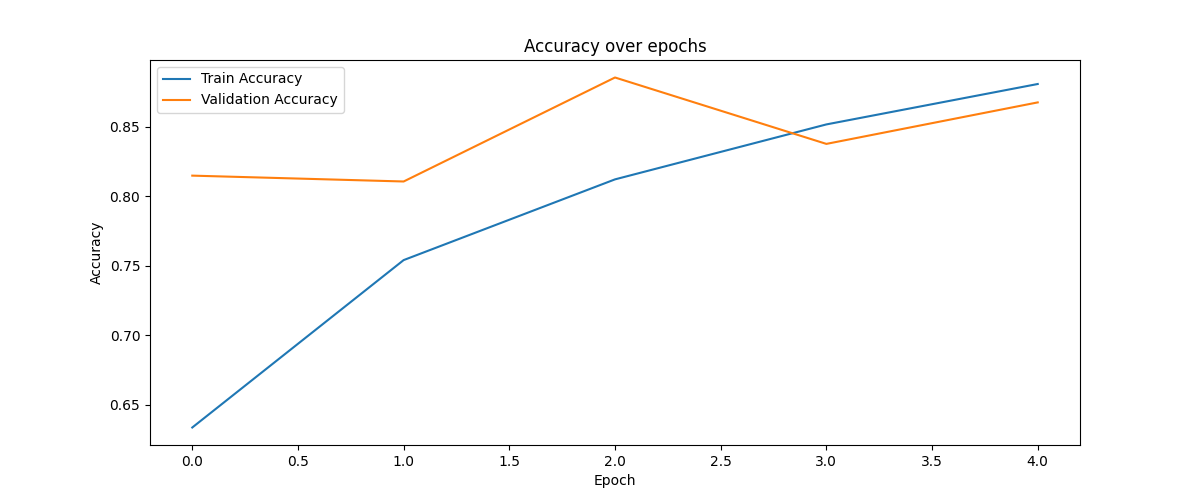
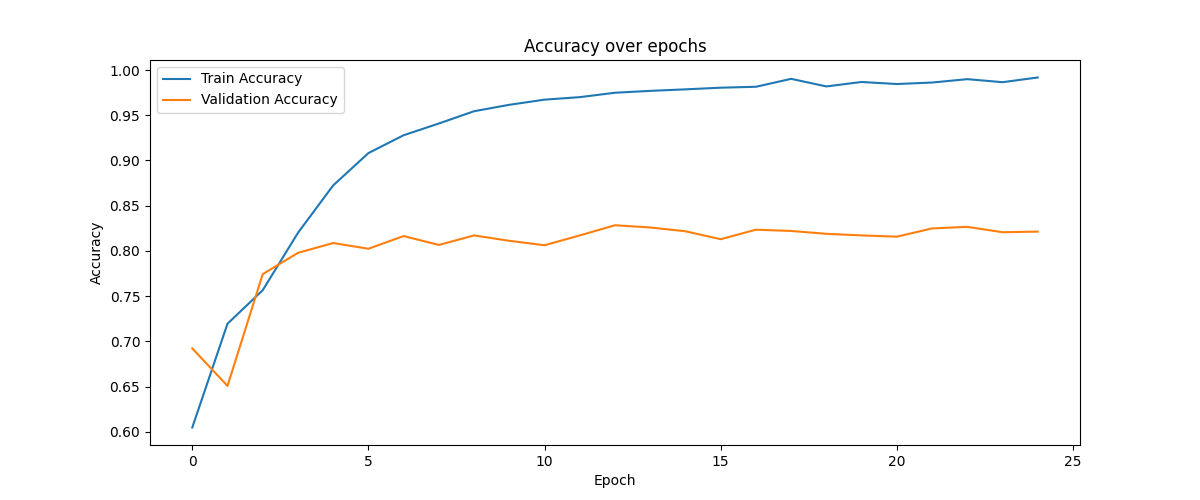
wip: retrain model, remake tests and experiments

diff --git a/cmd/train_remake_model.py b/cmd/train_remake_model.py
@@ -1,0 +1,76 @@
+import os
+import sys
+import mlflow
+import numpy as np
+import tensorflow as tf
+import matplotlib.pyplot as plt
+
+from tensorflow.keras.layers import Dense
+from tensorflow.keras.models import Model
+
+# ================================================
+
+PATH_ROOT = os.getenv('PATH_ROOT')
+TRAIN_DATASET_PATH = os.getenv('TRAIN_DATASET_PATH')
+
+# ================================================
+
+other_findings_train_images = np.load(os.path.join(TRAIN_DATASET_PATH, 'train_other_findings_images.npy'))
+other_findings_train_labels = np.load(os.path.join(TRAIN_DATASET_PATH, 'train_other_findings_labels.npy'))
+
+other_findings_train_images = other_findings_train_images[..., np.newaxis]
+
+print('other_findings_train_images.shape: ', other_findings_train_images.shape)
+print('other_findings_train_labels.shape: ', other_findings_train_labels.shape)
+
+model_path = os.path.join(PATH_ROOT, 'model', 'cnn_model.h5')
+
+# Carrega o modelo salvo
+model = tf.keras.models.load_model(model_path)
+
+# Remova a última camada do modelo
+model.layers.pop()
+
+# Numero de possíveis saidas
+new_outputs = 4 
+output = Dense(new_outputs, activation='softmax')(model.layers[-1].output)
+
+# Crie um novo modelo com a saída alterada
+new_model = Model(inputs=model.input, outputs=output)
+
+# summary model structure
+model.summary() 
+
+# Compilando o modelo
+model.compile(optimizer='adam', loss='sparse_categorical_crossentropy', metrics=['accuracy'])
+
+# Treinando o modelo
+history = model.fit(other_findings_train_images, other_findings_train_labels, epochs=25, validation_split=0.1)
+
+# Plotando a acurácia de treino e validação ao longo das épocas
+plt.figure(figsize=(12, 5))
+plt.plot(history.history['accuracy'], label='Train Accuracy')
+plt.plot(history.history['val_accuracy'], label='Validation Accuracy')
+plt.legend()
+plt.title('Accuracy over epochs')
+plt.xlabel('Epoch')
+plt.ylabel('Accuracy')
+
+plt.savefig(os.path.join(PATH_ROOT, 'stats', 'train', 'retrained_accuracy_graph.png'))
+
+# Plotando a perda de treino e validação ao longo das épocas
+plt.figure(figsize=(12, 5))
+plt.plot(history.history['loss'], label='Train Loss')
+plt.plot(history.history['val_loss'], label='Validation Loss')
+plt.legend()
+plt.title('Loss over epochs')
+plt.xlabel('Epoch')
+plt.ylabel('Loss')
+
+# save fig
+plt.savefig(os.path.join(PATH_ROOT, 'stats', 'train', 'retrained_loss_graph.png'))
+
+# Se você quiser salvar o modelo após o treinamento, você pode fazer isso:
+model.save(os.path.join(PATH_ROOT, 'model', 'cnn_model_retrained.h5'))
+
+mlflow.run(uri='.', entry_point='experiments_remake', parameters={ num_train_samples:  })

diff --git a/cmd/test_model_retrained.py b/cmd/test_model_retrained.py
@@ -19,7 +19,7 @@ TEST_DATASET_PATH = os.getenv('TEST_DATASET_PATH')
 test_images = np.load(os.path.join(TEST_DATASET_PATH, 'validation_images.npy'))
 test_labels = np.load(os.path.join(TEST_DATASET_PATH, 'validation_labels.npy'))
 
-model = tf.keras.models.load_model(os.path.join(PATH_ROOT, 'model', 'cnn_model.h5'))
+model = tf.keras.models.load_model(os.path.join(PATH_ROOT, 'model', 'cnn_model_retrained.h5'))
 
 # Testando o modelo
 predictions = model.predict(test_images)
@@ -56,7 +56,7 @@ stats = {
 }
 
 # Escrevendo no arquivo JSON
-with open(os.path.join(TEST_STATS_PATH, 'matrix_confusion.json'), 'w') as f:
+with open(os.path.join(TEST_STATS_PATH, 'retest_stats.json'), 'w') as f:
     json.dump(stats, f)
 
 # Plotando a matriz de confusão
@@ -65,4 +65,4 @@ sns.heatmap(conf_matrix, annot=True, fmt='g', cmap='Blues')
 plt.xlabel('Predicted Label')
 plt.ylabel('True Label')
 plt.title('Confusion Matrix')
-plt.savefig(os.path.join(TEST_STATS_PATH, 'confusion_matrix.png'))
+plt.savefig(os.path.join(TEST_STATS_PATH, 'retest_confusion_matrix.png'))

diff --git a/cmd/prepare_experiments_dataset.py b/cmd/prepare_experiments_dataset.py
@@ -21,7 +21,7 @@ unknown_class = [OTHER_FINDINGS]
 known_classes = [COVID, NORMAL, PNEUMONIA]
 
 # percent of unknown samples to add in experiment
-percentages = [0.05, 0.15, 0.25, 0.35]
+percentages = [0.05, 0.1, 0.2, 0.3]
 
 # num of total samples
 total_samples = 1500
@@ -51,9 +51,14 @@ for percentage in percentages:
     images_list.append(other_finding_images_samples[:num_unknown_samples])
     labels_list.append(np.full((num_unknown_samples, 1), OTHER_FINDINGS))
 
+    print('other_finding_images_samples[:num_unknown_samples]: ', other_finding_images_samples[:num_unknown_samples].shape)
+
     # Salvando
     final_images = np.vstack([images_list[0], images_list[1], images_list[2], images_list[3]])
     final_labels = np.vstack([labels_list[0], labels_list[1], labels_list[2], labels_list[3]])
+
+    print('final_images: ', final_images.shape)    
+    print('final_labels: ', final_labels.shape)    
 
     # Contando e exibindo o número de amostras para cada classe
     unique_labels, counts = np.unique(final_labels, return_counts=True)

diff --git a/cmd/train_model.py b/cmd/train_model.py
@@ -44,7 +44,7 @@ else:
     model.compile(optimizer='adam', loss='sparse_categorical_crossentropy', metrics=['accuracy'])
 
     # Treinando o modelo
-    history = model.fit(train_images, train_labels, epochs=5, validation_split=0.1)
+    history = model.fit(train_images, train_labels, epochs=25, validation_split=0.1)
 
     # Plotando a acurácia de treino e validação ao longo das épocas
     plt.figure(figsize=(12, 5))
